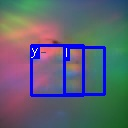
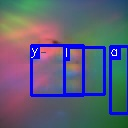
choose by max confidence

Changed region(s): [[0.8125, 0.3125, 1.0, 0.9375]]

diff --git a/autoencoder/main_code.py b/autoencoder/main_code.py
@@ -439,23 +439,20 @@ pred_text = "" #initialise string of predicted text
 os.makedirs('/home/parth/UROP_2023/autoencoder/braille_detect', exist_ok=True) #make folder to store braille classifier images
 for i in range(1, len(test_dataset)+1): #for each image in the predictions folder
     #infer on each image
-    pred_dict = classifier.predict("/home/parth/UROP_2023/autoencoder/predictions/im{}.jpg".format(i), confidence=0, overlap=30).json() #save as dictionary data type
+    pred_dict = classifier.predict("/home/parth/UROP_2023/autoencoder/predictions/im{}.jpg".format(i), confidence=0, overlap=50).json() #save as dictionary data type
     if 'predictions' in pred_dict:
         preds = pred_dict['predictions'] #get predictions from dictionary
         max_conf = 0 #initialise max confidence
         if len(preds) > 0:
             for pred in preds:
                     if pred['confidence'] > max_conf: #if confidence is higher than previous max confidence
+                        max_conf = pred['confidence']
                         max_class = pred['class'] #save prediction with highest confidence
             pred_text += max_class #add predicted character with highest confidence to string
         else:
             pred_text += " " #add space if no predictions
     #save bounding box image to braille_detect folder
-    classifier.predict("/home/parth/UROP_2023/autoencoder/predictions/im{}.jpg".format(i), confidence=0, overlap=30).save("/home/parth/UROP_2023/autoencoder/braille_detect/detect{}.jpg".format(i))
+    classifier.predict("/home/parth/UROP_2023/autoencoder/predictions/im{}.jpg".format(i), confidence=0, overlap=50).save("/home/parth/UROP_2023/autoencoder/braille_detect/detect{}.jpg".format(i))
 ##############################################################################################################
 #Compare predicted text with target text
-pred_list = list(pred_text)
-for i in range(line_count+1):
-    pred_list[40*i:(40*i)+40] = pred_list[40*i:(40*i)+40][::-1] #reverse each line of predicted text, 40 frames per row with 0.2m/s
-pred_text = "".join(pred_list) #convert back to string
 print(pred_text)
